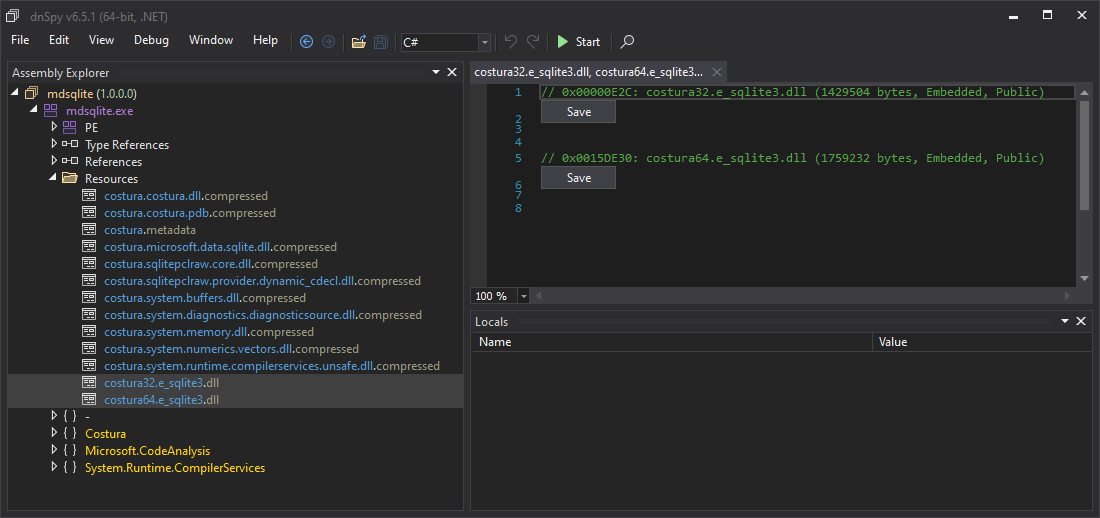
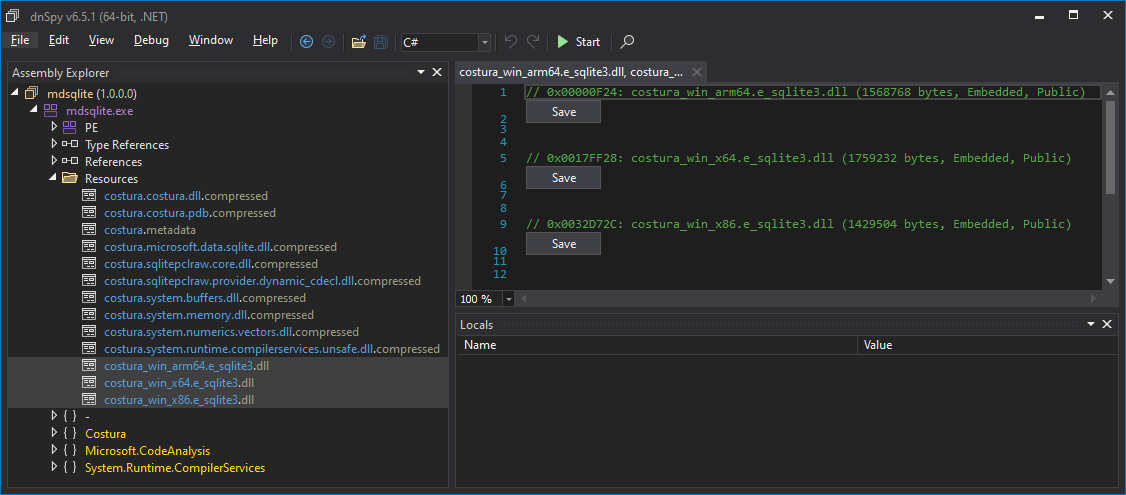
Update the README to match current state of the project

diff --git a/src/Program.cs b/src/Program.cs
@@ -1,4 +1,5 @@
 using System;
+using System.Linq;
 using System.Reflection;
 using Microsoft.Data.Sqlite;
 using SQLitePCL;
@@ -14,3 +15,10 @@ var version = command.ExecuteScalar();
 var assembly = typeof(SqliteConnection).Assembly;
 var info = assembly.GetCustomAttribute<AssemblyInformationalVersionAttribute>()?.InformationalVersion ?? assembly.GetName().Version.ToString();
 Console.WriteLine($"✔ {assembly.GetName().Name} {info} is working with Costura and {raw.GetNativeLibraryName()} version {version}");
+
+Console.WriteLine();
+Console.WriteLine("Embedded resources");
+foreach (var resourceName in typeof(Program).Assembly.GetManifestResourceNames().OrderBy(e => e))
+{
+    Console.WriteLine($"  📦 {resourceName}");
+}

diff --git a/README.md b/README.md
@@ -23,6 +23,21 @@ This will build a single `mdsqlite.exe` executable that embeds all the required 
 This will print
 
 ```
-✔ Microsoft.Data.Sqlite 9.0.0 is working with Costura and e_sqlite3 version 3.46.1
+✔ Microsoft.Data.Sqlite 9.0.1 is working with Costura and e_sqlite3 version 3.46.1
+
+Embedded resources
+  📦 costura.costura.dll.compressed
+  📦 costura.costura.pdb.compressed
+  📦 costura.metadata
+  📦 costura.microsoft.data.sqlite.dll.compressed
+  📦 costura.sqlitepclraw.core.dll.compressed
+  📦 costura.sqlitepclraw.provider.dynamic_cdecl.dll.compressed
+  📦 costura.system.buffers.dll.compressed
+  📦 costura.system.memory.dll.compressed
+  📦 costura.system.numerics.vectors.dll.compressed
+  📦 costura.system.runtime.compilerservices.unsafe.dll.compressed
+  📦 costura_win_arm64.e_sqlite3.dll
+  📦 costura_win_x64.e_sqlite3.dll
+  📦 costura_win_x86.e_sqlite3.dll
 ```
 
